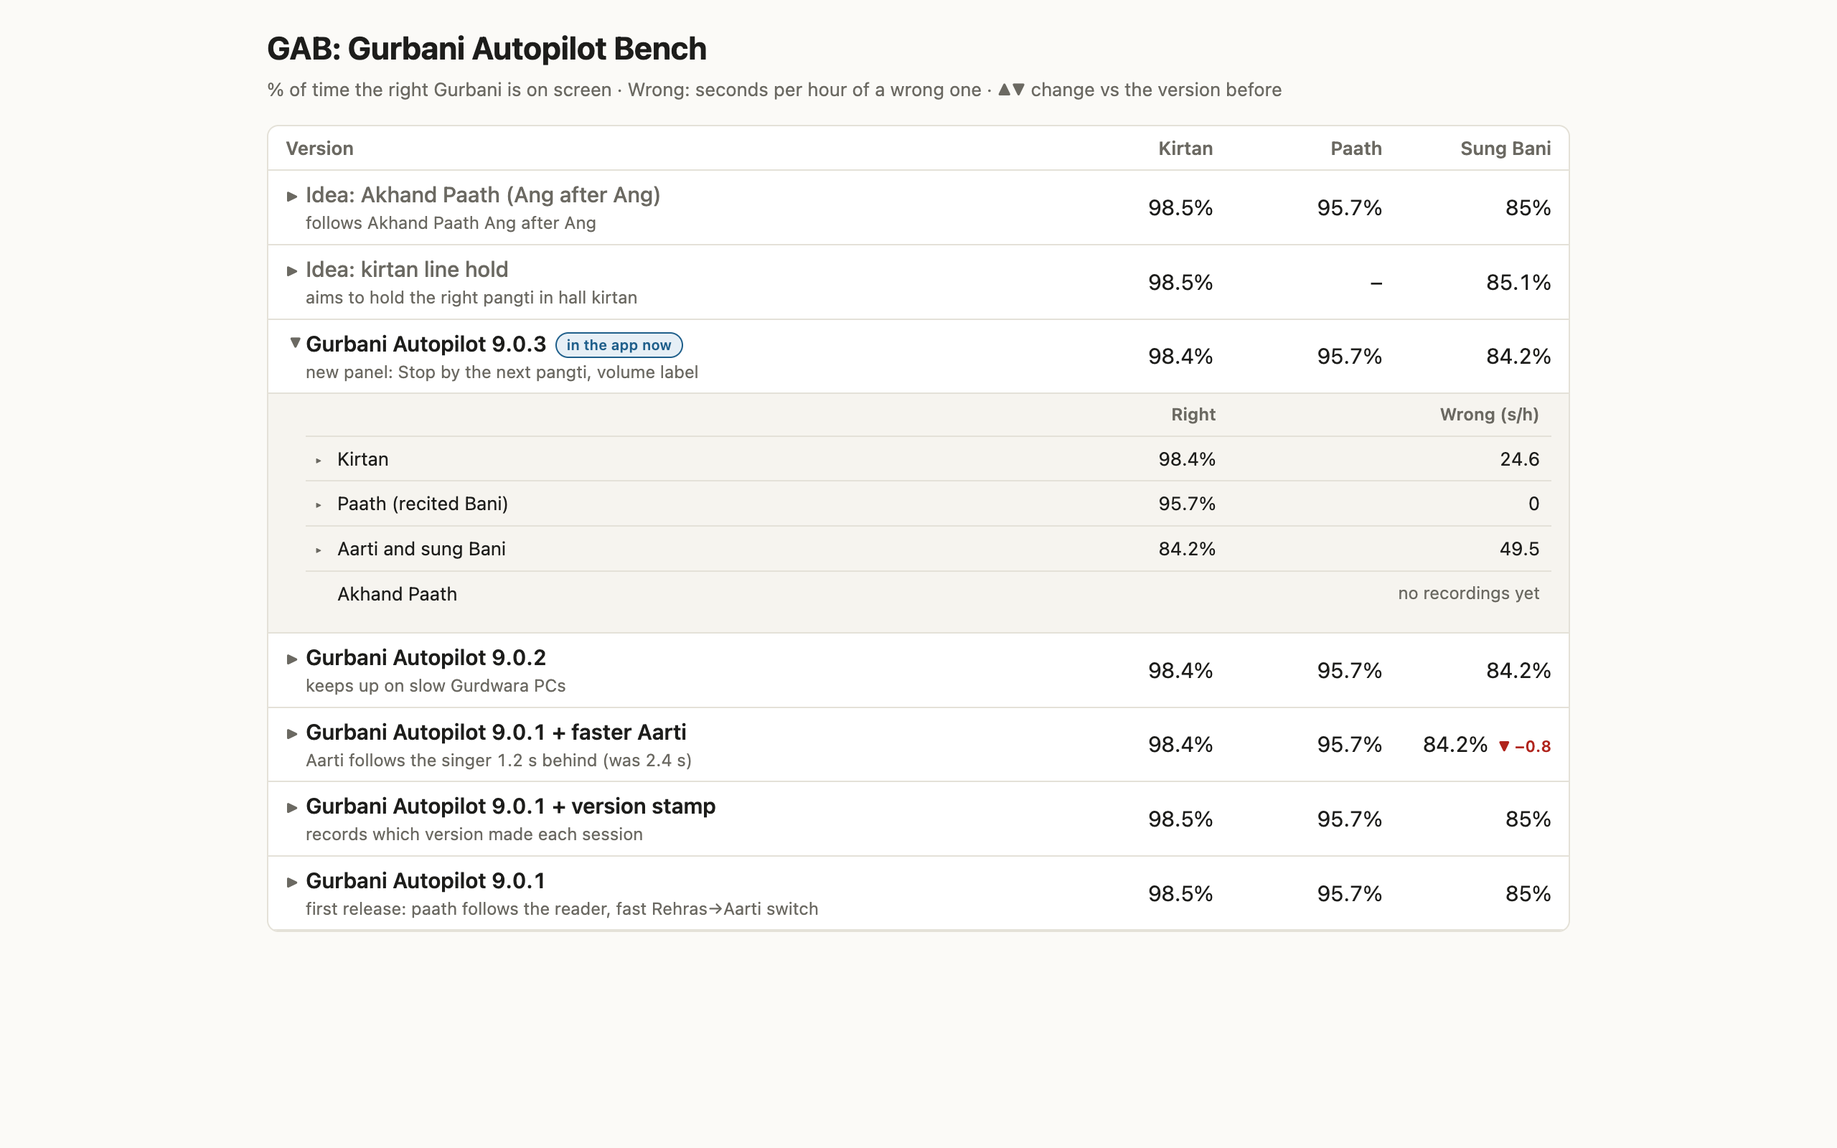
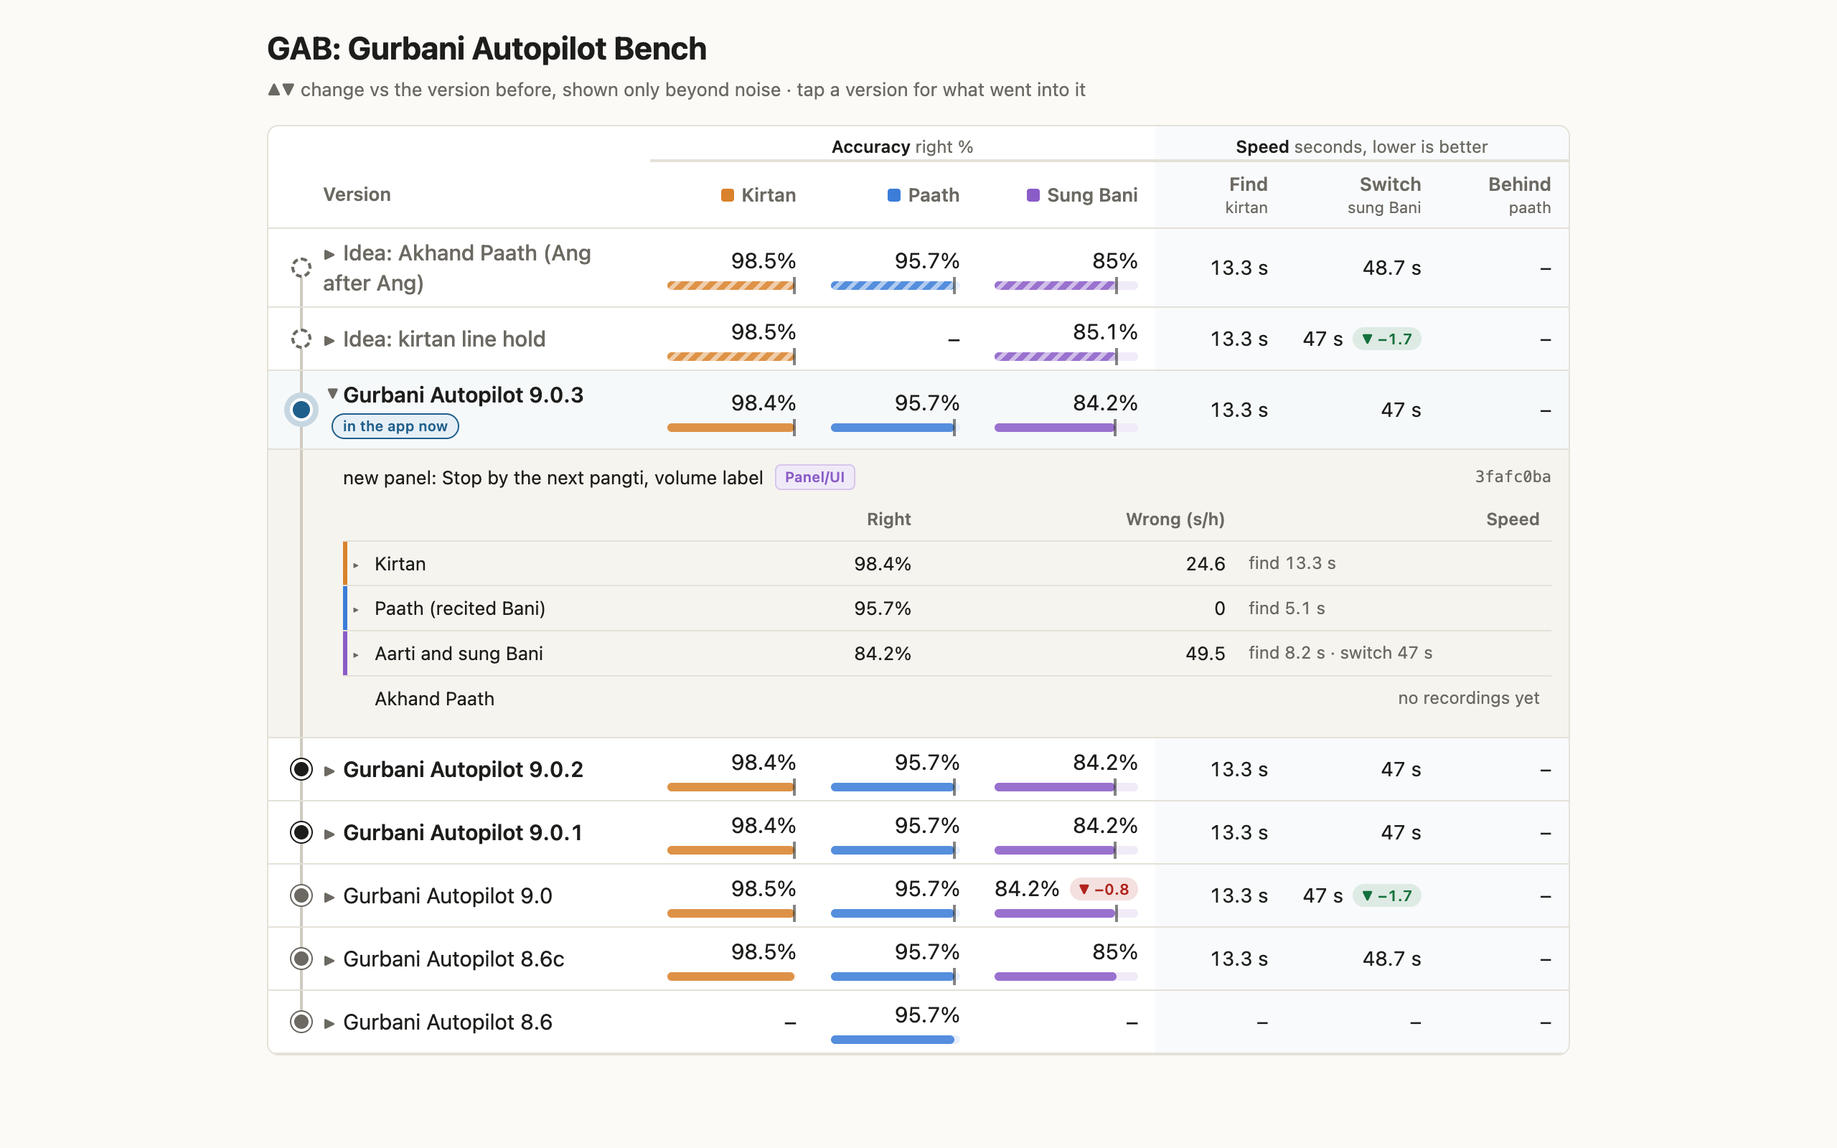
GAB Space: variant C (timeline spine, content-colour bars, change-type chips, Accuracy + Speed groups, one row per version)

diff --git a/research/level2-dataset/tools/gab-space/index.html b/research/level2-dataset/tools/gab-space/index.html
@@ -39,7 +39,7 @@ td.nm .what { display: block; font-weight: 400; color: var(--muted); font-size: 
 tr.idea td.nm { font-weight: 500; color: var(--muted); }
 tr.old td.nm { font-weight: 400; }
 .pill { display: inline-block; margin-left: 6px; border-radius: 999px; padding: 0 7px; font-size: 10px; font-weight: 600; line-height: 16px; vertical-align: 1px; white-space: nowrap; background: var(--app-soft); color: var(--app); border: 1px solid var(--app); }
-td.v { font-size: 15px; white-space: nowrap; width: 13%; }
+td.v { font-size: 15px; white-space: nowrap; width: 10%; }
 tr.det > td { padding: 0 12px 12px 26px; background: var(--sub); text-align: left; }
 .sd { width: 100%; font-size: 13px; }
 .sd th, .sd td { padding: 6px 8px; border-bottom: 1px solid var(--line); }
@@ -48,6 +48,52 @@ tr.det > td { padding: 0 12px 12px 26px; background: var(--sub); text-align: lef
 .sd td { width: 26%; white-space: nowrap; } .sd td:first-child { width: auto; white-space: normal; }
 .sd tr.node { cursor: pointer; }
 .sd .tw { display: inline-block; width: 16px; background: none; border: 0; padding: 0; color: var(--muted); font: inherit; font-size: 12px; cursor: pointer; text-align: left; }
+
+/* ---- timeline spine, content-colour bars, change-type chips ---- */
+:root { --k: #d9822b; --p: #3b7dd8; --s: #8a5cc7; --spine: #cfcac0;
+  --t-acc: #2f8f83; --t-spd: #3b7dd8; --t-pc: #b7791f; --t-ui: #8a5cc7; --t-inf: #7a7a72; --t-new: #c2507a; --app-dot: #1f5f8b; }
+
+@media (prefers-color-scheme: dark) { :root:not([data-theme="light"]) { --k: #e9a050; --p: #6aa0ec; --s: #ab86e0; --spine: #4a4843; --app-dot: #9cc8ea;
+  --t-acc: #5cc3b5; --t-spd: #6aa0ec; --t-pc: #d9a24a; --t-ui: #ab86e0; --t-inf: #a3a39a; --t-new: #e07fa3; } }
+:root[data-theme="dark"] { --k: #e9a050; --p: #6aa0ec; --s: #ab86e0; --spine: #4a4843; --app-dot: #9cc8ea;
+  --t-acc: #5cc3b5; --t-spd: #6aa0ec; --t-pc: #d9a24a; --t-ui: #ab86e0; --t-inf: #a3a39a; --t-new: #e07fa3; }
+.ch { display: inline-block; border-radius: 999px; padding: 0 6px; line-height: 16px; font-size: 10.5px; vertical-align: 1px; }
+.ch.up { background: color-mix(in srgb, var(--better-ink) 14%, var(--panel)); } .ch.dn { background: color-mix(in srgb, var(--worse-ink) 14%, var(--panel)); }
+.chips { display: inline-flex; gap: 4px; margin-left: 6px; vertical-align: 2px; }
+.chip { font-size: 10px; font-weight: 600; border-radius: 4px; padding: 0 6px; line-height: 16px; color: var(--c); background: color-mix(in srgb, var(--c) 13%, var(--panel)); border: 1px solid color-mix(in srgb, var(--c) 35%, var(--panel)); white-space: nowrap; }
+.grp th { border-bottom: 0; padding-bottom: 0; font-size: 12px; color: var(--ink); }
+.grp th.g { text-align: center; border-bottom: 2px solid var(--line); }
+.grp th.g span { font-weight: 400; color: var(--muted); }
+th .u { display: block; font-weight: 400; font-size: 11px; }
+th.s, td.s { background: color-mix(in srgb, var(--app-dot) 3%, var(--panel)); }
+th.s:not(.g) + th.s, td.s + td.s { }
+td.v.s { font-size: 14px; color: var(--ink); }
+td.v.s:first-of-type { }
+.sd td.spd { color: var(--muted); font-size: 12px; text-align: left; }
+td.nm, th.vh { text-align: left !important; }
+.items { padding: 10px 0 6px; display: grid; gap: 5px; }
+.item { font-size: 13px; display: flex; flex-wrap: wrap; align-items: center; gap: 4px 8px; }
+.item .chips { margin-left: 0; }
+.item .ichg { font-size: 11px; color: var(--muted); }
+.item .cm { margin-left: auto; font: 11px ui-monospace, SFMono-Regular, Menlo, monospace; color: var(--muted); }
+/* timeline spine */
+td.tl, th.tl { width: 26px; padding: 0 0 0 14px !important; position: relative; }
+td.tl::before { content: ''; position: absolute; left: 22px; top: 0; bottom: 0; width: 2px; background: var(--spine); }
+tbody tr:first-child td.tl::before { top: 50%; }
+tbody tr.lastver td.tl::before { bottom: 50%; }
+tr.det td.tl::before { bottom: 0 !important; }
+.dot { position: absolute; left: 16px; top: 50%; margin-top: -7px; width: 14px; height: 14px; border-radius: 50%; background: var(--ink); border: 2px solid var(--panel); box-shadow: 0 0 0 1px var(--ink); }
+tr.idea .dot { background: var(--panel); box-shadow: 0 0 0 1.5px var(--muted); border: 2px dashed var(--muted); box-shadow: none; }
+tr.old .dot { background: var(--muted); box-shadow: 0 0 0 1px var(--muted); }
+tr.now .dot { background: var(--app-dot); box-shadow: 0 0 0 4px color-mix(in srgb, var(--app-dot) 25%, var(--panel)); width: 16px; height: 16px; margin-top: -8px; left: 15px; }
+tr.now td { background: color-mix(in srgb, var(--app-dot) 4%, var(--panel)); }
+/* bars */
+.bar { position: relative; height: 6px; border-radius: 3px; background: color-mix(in srgb, var(--c) 12%, var(--panel)); margin-top: 4px; min-width: 90px; }
+.bar > i { position: absolute; left: 0; top: 0; bottom: 0; border-radius: 3px; background: var(--c); opacity: .85; }
+.bar > b { position: absolute; top: -3px; bottom: -3px; width: 2px; background: var(--ink); opacity: .55; }
+tr.idea .bar > i { background: repeating-linear-gradient(135deg, var(--c) 0 4px, color-mix(in srgb, var(--c) 45%, var(--panel)) 4px 7px); }
+th .hdot { display: inline-block; width: 9px; height: 9px; border-radius: 2px; background: var(--c); margin-right: 5px; vertical-align: 0; }
+.sd td.k1 { box-shadow: inset 3px 0 0 var(--c); }
 @media (max-width: 560px) {
   .page { padding: 16px 12px; }
   th, td { padding: 8px 6px; }
@@ -55,13 +101,22 @@ tr.det > td { padding: 0 12px 12px 26px; background: var(--sub); text-align: lef
   td.nm .sysn { display: none; }
   th { white-space: normal; }
   tr.det > td { padding: 0 6px 10px 6px; }
+  /* phone: the table scrolls inside its box; spine and name stay put */
+  .box { overflow-x: auto; }
+  #board { min-width: 720px; }
+  td.tl, th.tl { position: sticky; left: 0; z-index: 2; background: var(--panel); min-width: 30px; width: 30px; }
+  tbody tr.ver td.nm, thead th.vh { position: sticky; left: 30px; z-index: 2; background: var(--panel); min-width: 120px; max-width: 130px; white-space: normal; box-shadow: 1px 0 0 var(--line); }
+  tr.now td.tl, tr.now td.nm { background: color-mix(in srgb, var(--app-dot) 4%, var(--panel)); }
+  tr.det td.tl { background: var(--sub); }
+  .det .sd, .det .items { max-width: 340px; position: sticky; left: 36px; }
+  .bar { min-width: 60px; }
 }
 </style>
 </head>
 <body>
 <div class="page">
   <h1>GAB: Gurbani Autopilot Bench</h1>
-  <p class="sub">% of time the right Gurbani is on screen · Wrong: seconds per hour of a wrong one · ▲▼ change vs the version before</p>
+  <p class="sub">▲▼ change vs the version before, shown only beyond noise · tap a version for what went into it</p>
   <div class="box"><table id="board"></table></div>
 </div>
 <script>
@@ -85,24 +140,58 @@ const kindOf = (r) => r.kind || (r.status === 'merged' ? 'release' : 'experiment
 const rowOf = (rows, key) => (rows || []).find((x) => x.key === key && x.clips) || null;
 const pct = (res, key) => { const r = rowOf(res.rows, key); return r && r.right_shabad_pct != null ? Number(r.right_shabad_pct) : null; };
 let RESULTS = []; let WHY = {};
+const TCOL = { Accuracy: '--t-acc', Speed: '--t-spd', 'Slow PCs': '--t-pc', 'Panel/UI': '--t-ui', Infrastructure: '--t-inf', 'New behaviour': '--t-new' };
+const HCOL = { '1-kirtan-shabad': '--k', '2-bani-recited': '--p', '3-bani-sung-like-kirtan': '--s' };
+let TYPEOF = {};
+const chipsOf = (res) => { const t = TYPEOF[String(res.commit).slice(0, 8)] || []; return t.length ? `<span class="chips">${t.map((x) => `<span class="chip" style="--c: var(${TCOL[x] || '--t-inf'})">${esc(x)}</span>`).join('')}</span>` : ''; };
+const SPINE = true; const CHIPS = true; const BARS = true;
+
 // change vs the version before it (an idea: vs its base); shown only above the noise floor
-const FLOOR = { pct: 0.3, wrong: 3 };
+const FLOOR = { pct: 0.3, wrong: 3, sec: 0.5 };
 function chg(v, b, kind) {
   if (v == null || b == null) return '';
   const d = Math.round((v - b) * 10) / 10;
   if (Math.abs(d) <= FLOOR[kind]) return '';
-  const better = kind === 'pct' ? d > 0 : d < 0;
+  const better = kind === 'pct' ? d > 0 : d < 0; // wrong s/h and seconds: lower is better
   return ` <span class="ch ${better ? 'up' : 'dn'}" title="${better ? 'better' : 'worse'} than the version before (${b})">${d > 0 ? '▲ +' : '▼ −'}${Math.abs(d)}</span>`;
 }
 let PREV = new Map();
+// speed: typical seconds, lower is better. Behind only on human or ear-checked line answers (>= 3 clips), else '–'
+const sv = (res, key, k, need) => { const r = rowOf(res.rows, key); if (!r || r[k] == null || (need && !need(r))) return null; return Number(r[k]); };
+const behindOk = (r) => r.pangti_basis && r.pangti_basis !== 'aligned' && r.pangti_clips >= 3;
+const SPEED = [
+  { t: 'Find', sub: 'kirtan', tip: 'typical seconds until the right Shabad is first shown (kirtan)', get: (res) => sv(res, '1-kirtan-shabad', 'find_p50_s') },
+  { t: 'Switch', sub: 'sung Bani', tip: 'typical seconds to the new Shabad or Bani after a change, e.g. Rehras Sahib to Aarti', get: (res) => sv(res, '3-bani-sung-like-kirtan', 'switch_p50_s', (r) => r.switch_n > 0) },
+  { t: 'Behind', sub: 'paath', tip: 'typical seconds behind the reader; fills in once paath line answers are in the practice set', get: (res) => sv(res, '2-bani-recited', 'behind_p50_s', behindOk) },
+];
+const speedTxt = (r) => { if (!r) return ''; const p = []; if (r.find_p50_s != null) p.push(`find ${r.find_p50_s} s`); if (r.switch_n && r.switch_p50_s != null) p.push(`switch ${r.switch_p50_s} s`); if (behindOk(r) && r.behind_p50_s != null) p.push(`behind ${r.behind_p50_s} s`); return p.join(' · '); };
 
-function nameCell(res, now) {
-  const [ver, ...rest] = String(res.label || res.name).split(' · ');
-  const why = WHY[String(res.commit).slice(0, 8)] || rest.join(' · ');
-  const idea = kindOf(res) === 'experiment';
-  const tip = `${res.label || res.name}\ncommit ${String(res.commit).slice(0, 8)} · Voice-Follow ${res.vf_feature_version || 'not stamped'}`;
-  return `<td class="nm" title="${esc(tip)}"><span class="car">▶</span>${idea ? `Idea: ${esc(ver)}` : `<span class="sysn">${esc(SYSTEM.latin)} </span>${esc(ver)}`}${res === now ? '<span class="pill">in the app now</span>' : ''}${why ? `<span class="what">${esc(why)}</span>` : ''}</td>`;
+
+const verOf = (res) => (res.vf_feature_version && kindOf(res) === 'release' ? res.vf_feature_version : String(res.label || res.name).split(' · ')[0].split(' + ')[0]);
+function nameCell(g, isNow) {
+  const res = g.rep; const idea = kindOf(res) === 'experiment';
+  const nm = idea ? `Idea: ${esc(String(res.label || res.name).split(' · ')[0])}` : `<span class="sysn">${esc(SYSTEM.latin)} </span>${esc(g.ver)}`;
+  return `<td class="nm"><span class="car">▶</span>${nm}${isNow ? '<span class="pill">in the app now</span>' : ''}</td>`;
 }
+// what went into a version: one line per build, with its chips and any change beyond noise vs the build before it
+function itemsHtml(g) {
+  return g.builds.map((res) => {
+    const c8 = String(res.commit).slice(0, 8);
+    const lab = String(res.label || res.name); const short = lab.includes(' · ') ? lab.split(' · ').slice(1).join(' · ') : lab.includes(' + ') ? lab.split(' + ').slice(1).join(' + ') : kindOf(res) === 'experiment' ? '' : 'release';
+    const why = WHY[c8] || '';
+    const text = why && short && why.toLowerCase().startsWith(short.toLowerCase()) ? why : [short, why].filter(Boolean).join(': ');
+    const pv = PREV_BUILD.get(res); const ch = [];
+    if (pv) for (const c of HEAD) {
+      const a = rowOf(res.rows, c.key); const b = rowOf(pv.rows, c.key);
+      if (has(a) && has(b)) {
+        const x = chg(Number(a.right_shabad_pct), Number(b.right_shabad_pct), 'pct'); if (x) ch.push(`${c.t}${x}`);
+        const y = chg(Number(a.wrong_s_per_h), Number(b.wrong_s_per_h), 'wrong'); if (y) ch.push(`${c.t} wrong${y}`);
+      }
+    }
+    return `<div class="item"><span class="itxt">${esc(text)}</span>${chipsOf(res)}${ch.length ? `<span class="ichg">${ch.join(' ')}</span>` : ''}<span class="cm" title="${esc(lab)}">${c8}</span></div>`;
+  }).join('');
+}
+let PREV_BUILD = new Map(); let CUR_G = null;
 const has = (r) => !!(r && r.clips && r.right_shabad_pct != null);
 // mic types inside one scorecard row (only when there is more than one real type)
 function micKids(path, r) {
@@ -132,10 +221,10 @@ function tree(res) {
 const walk = (nodes, f, d = 0) => nodes.forEach((n) => { f(n, d); walk(n.kids, f, d + 1); });
 function nodeCells(n, pn) {
   if (n.row && n.row.incomplete) return `<td class="none" colspan="2" title="${esc(n.row.note || '')}">not scored: ${n.row.incomplete} recording${n.row.incomplete > 1 ? 's need' : ' needs'} speech-model output this version asks for, not saved yet</td>`;
-  if (!has(n.row)) return '<td class="none" colspan="2">no recordings yet</td>';
+  if (!has(n.row)) return `<td class="none" colspan="3">${n.raw && n.raw.incomplete ? 'not scored yet' : 'no recordings yet'}</td>`;
   const r = Number(n.row.right_shabad_pct); const w = Number(n.row.wrong_s_per_h);
   const p = pn && has(pn.row) ? pn.row : null;
-  return `<td>${r}%${chg(r, p ? Number(p.right_shabad_pct) : null, 'pct')}</td><td>${w}${chg(w, p ? Number(p.wrong_s_per_h) : null, 'wrong')}</td>`;
+  return `<td>${r}%${chg(r, p ? Number(p.right_shabad_pct) : null, 'pct')}</td><td>${w}${chg(w, p ? Number(p.wrong_s_per_h) : null, 'wrong')}</td><td class="spd">${esc(speedTxt(n.row)) || '–'}</td>`;
 }
 function detail(res) {
   const out = []; const pv = PREV.get(res); const pnodes = {};
@@ -143,29 +232,46 @@ function detail(res) {
   walk(tree(res), (n, d) => {
     const open = n.kids.length && has(n.row) || n.kids.length;
     const kid = d ? ` data-p="${esc(n.id.split('|').slice(0, -1).join('|') || n.id)}" hidden` : '';
-    out.push(`<tr class="node"${kid} data-id="${esc(n.id)}"><td style="padding-left:${6 + d * 16}px">${open ? `<button type="button" class="tw" aria-expanded="false">▸</button>` : '<span class="tw"></span>'}${esc(n.name)}</td>${nodeCells(n, pnodes[n.id])}</tr>`);
+    const hc = HCOL[n.id.split('|')[0].split('/')[0]];
+    out.push(`<tr class="node"${kid} data-id="${esc(n.id)}"><td class="${hc ? 'k1' : ''}" style="padding-left:${6 + d * 16}px;${hc ? `--c: var(${hc})` : ''}">${open ? `<button type="button" class="tw" aria-expanded="false">▸</button>` : '<span class="tw"></span>'}${esc(n.name)}</td>${nodeCells(n, pnodes[n.id])}</tr>`);
   });
-  return `<table class="sd"><thead><tr><th></th><th>Right</th><th>Wrong (s/h)</th></tr></thead><tbody>${out.join('')}</tbody></table>`;
+  return `${CUR_G ? `<div class="items">${itemsHtml(CUR_G)}</div>` : ''}<table class="sd"><thead><tr><th></th><th>Right</th><th>Wrong (s/h)</th><th>Speed</th></tr></thead><tbody>${out.join('')}</tbody></table>`;
 }
 function render() {
-  // newest at top: ideas, then releases, then older versions; within each, latest order first
-  const rank = { experiment: 0, release: 1, 'older version': 2 };
-  const list = [...RESULTS].sort((a, b) => (rank[kindOf(a)] ?? 1) - (rank[kindOf(b)] ?? 1) || (b.order ?? -99) - (a.order ?? -99) || String(b.date).localeCompare(String(a.date)));
-  const now = list.find((x) => kindOf(x) === 'release');
-  // the version before: previous non-idea in date order; an idea: the version it was built from
-  const asc = list.filter((x) => kindOf(x) !== 'experiment').reverse();
-  PREV = new Map();
-  asc.forEach((x, i) => { if (i) PREV.set(x, asc[i - 1]); });
-  list.filter((x) => kindOf(x) === 'experiment').forEach((x) => { const b = x.base && RESULTS.find((y) => y !== x && String(y.commit).startsWith(String(x.base).slice(0, 8))); if (b) PREV.set(x, b); });
+  const byOrd = (a, b) => (a.order ?? -99) - (b.order ?? -99) || String(a.date).localeCompare(String(b.date));
+  const rank = { 'older version': 0, release: 1 };
+  const vers = RESULTS.filter((x) => kindOf(x) !== 'experiment').sort((a, b) => (rank[kindOf(a)] ?? 1) - (rank[kindOf(b)] ?? 1) || byOrd(a, b));
+  PREV_BUILD = new Map(); vers.forEach((x, i) => { if (i) PREV_BUILD.set(x, vers[i - 1]); });
+  // one row per version number (its last build carries the numbers), oldest first here
+  const groups = [];
+  for (const x of vers) { const v = verOf(x); const g = groups.length && groups[groups.length - 1].ver === v ? groups[groups.length - 1] : null; if (g) { g.builds.push(x); g.rep = x; } else groups.push({ ver: v, builds: [x], rep: x }); }
+  PREV = new Map(); groups.forEach((g, i) => { if (i) PREV.set(g.rep, groups[i - 1].rep); });
+  const ideas = RESULTS.filter((x) => kindOf(x) === 'experiment').sort(byOrd).reverse().map((x) => {
+    const b = x.base && RESULTS.find((y) => y !== x && String(y.commit).startsWith(String(x.base).slice(0, 8)));
+    if (b) { PREV.set(x, b); PREV_BUILD.set(x, b); }
+    return { ver: null, builds: [x], rep: x };
+  });
+  const nowG = [...groups].reverse().find((g) => kindOf(g.rep) === 'release');
+  const rows = [...ideas, ...groups.reverse()];
+  const list = rows.map((g) => g.rep);
   const cell = (res, c) => {
-    const v = pct(res, c.key); if (v == null) return '<td class="v">–</td>';
-    const pv = PREV.get(res);
-    return `<td class="v">${v}%${chg(v, pv ? pct(pv, c.key) : null, 'pct')}</td>`;
+    const v = pct(res, c.key); if (v == null) return '<td class="v" title="not scored yet">–</td>';
+    const pv = PREV.get(res); const b = pv ? pct(pv, c.key) : null;
+    const bar = BARS ? `<div class="bar" style="--c: var(${HCOL[c.key]})"><i style="width:${v}%"></i>${b != null ? `<b style="left:calc(${b}% - 1px)" title="version before: ${b}%"></b>` : ''}</div>` : '';
+    return `<td class="v">${v}%${chg(v, b, 'pct')}${bar}</td>`;
   };
-  const body = list.map((res, i) => `<tr class="ver ${{ experiment: 'idea', 'older version': 'old' }[kindOf(res)] || ''}" data-i="${i}" tabindex="0" aria-expanded="false">${nameCell(res, now)}${HEAD.map((c) => cell(res, c)).join('')}</tr><tr class="det" hidden><td colspan="${HEAD.length + 1}">${detail(res)}</td></tr>`).join('');
-  document.getElementById('board').innerHTML = `<thead><tr><th>Version</th>${HEAD.map((c) => `<th>${c.t}</th>`).join('')}</tr></thead><tbody>${body}</tbody>`;
+  const scell = (res, c) => {
+    const v = c.get(res); if (v == null) return `<td class="v s" title="${esc(c.tip)}">–</td>`;
+    const pv = PREV.get(res); const b = pv ? c.get(pv) : null;
+    return `<td class="v s" title="${esc(c.tip)}">${v} s${chg(v, b, 'sec')}</td>`;
+  };
+  const tl = (cls = '') => (SPINE ? `<td class="tl ${cls}">${cls === 'd' ? '' : '<span class="dot"></span>'}</td>` : '');
+  const body = rows.map((g, i) => { CUR_G = g; const res = g.rep; const isNow = g === nowG;
+    return `<tr class="ver ${{ experiment: 'idea', 'older version': 'old' }[kindOf(res)] || ''}${isNow ? ' now' : ''}${i === rows.length - 1 ? ' lastver' : ''}" data-i="${i}" tabindex="0" aria-expanded="false">${tl()}${nameCell(g, isNow)}${HEAD.map((c) => cell(res, c)).join('')}${SPEED.map((c) => scell(res, c)).join('')}</tr><tr class="det" hidden>${tl('d')}<td colspan="${HEAD.length + SPEED.length + 1}">${detail(res)}</td></tr>`; }).join('');
+  CUR_G = null;
+  document.getElementById('board').innerHTML = `<thead><tr class="grp">${SPINE ? '<th class="tl"></th>' : ''}<th></th><th colspan="${HEAD.length}" class="g">Accuracy <span>right %</span></th><th colspan="${SPEED.length}" class="g s">Speed <span>seconds, lower is better</span></th></tr><tr>${SPINE ? '<th class="tl"></th>' : ''}<th class="vh">Version</th>${HEAD.map((c) => `<th style="--c: var(${HCOL[c.key]})">${BARS ? '<span class="hdot"></span>' : ''}${c.t}</th>`).join('')}${SPEED.map((c) => `<th class="s" title="${esc(c.tip)}">${c.t}<span class="u">${c.sub}</span></th>`).join('')}</tr></thead><tbody>${body}</tbody>`;
   const q = new URLSearchParams(location.search).get('open');
-  if (q) document.querySelectorAll('tr.ver').forEach((tr) => { if (list[tr.dataset.i] && String(list[tr.dataset.i].commit).startsWith(q)) toggle(tr); });
+  if (q) document.querySelectorAll('tr.ver').forEach((tr) => { if (rows[tr.dataset.i] && rows[tr.dataset.i].builds.some((x) => String(x.commit).startsWith(q))) toggle(tr); });
 }
 // open: show direct children; close: hide every descendant
 function setNode(tr, on) {
@@ -188,7 +294,7 @@ document.getElementById('board').addEventListener('click', (e) => {
 });
 document.getElementById('board').addEventListener('keydown', (e) => { const tr = e.target.closest('tr.ver'); if (tr && (e.key === 'Enter' || e.key === ' ')) { e.preventDefault(); toggle(tr); } });
 (async () => {
-  try { const N = await (await fetch('gab-names.json', { cache: 'no-store' })).json(); if (N.system) SYSTEM = N.system; WHY = Object.fromEntries(Object.entries(N.builds || {}).map(([c, b]) => [c, b.why || ''])); } catch (e) { /* fallback name */ }
+  try { const N = await (await fetch('gab-names.json', { cache: 'no-store' })).json(); if (N.system) SYSTEM = N.system; TYPEOF = Object.fromEntries(Object.entries(N.builds || {}).filter(([, b]) => b.type).map(([c, b]) => [c, [].concat(b.type)])); WHY = Object.fromEntries(Object.entries(N.builds || {}).map(([c, b]) => [c, b.why || ''])); } catch (e) { /* fallback name */ }
   try {
     const idx = await (await fetch('results/index.json', { cache: 'no-store' })).json();
     RESULTS = await Promise.all(idx.results.map(async (x) => ({ ...x, ...(await (await fetch(`results/${x.file}`, { cache: 'no-store' })).json()) })));
